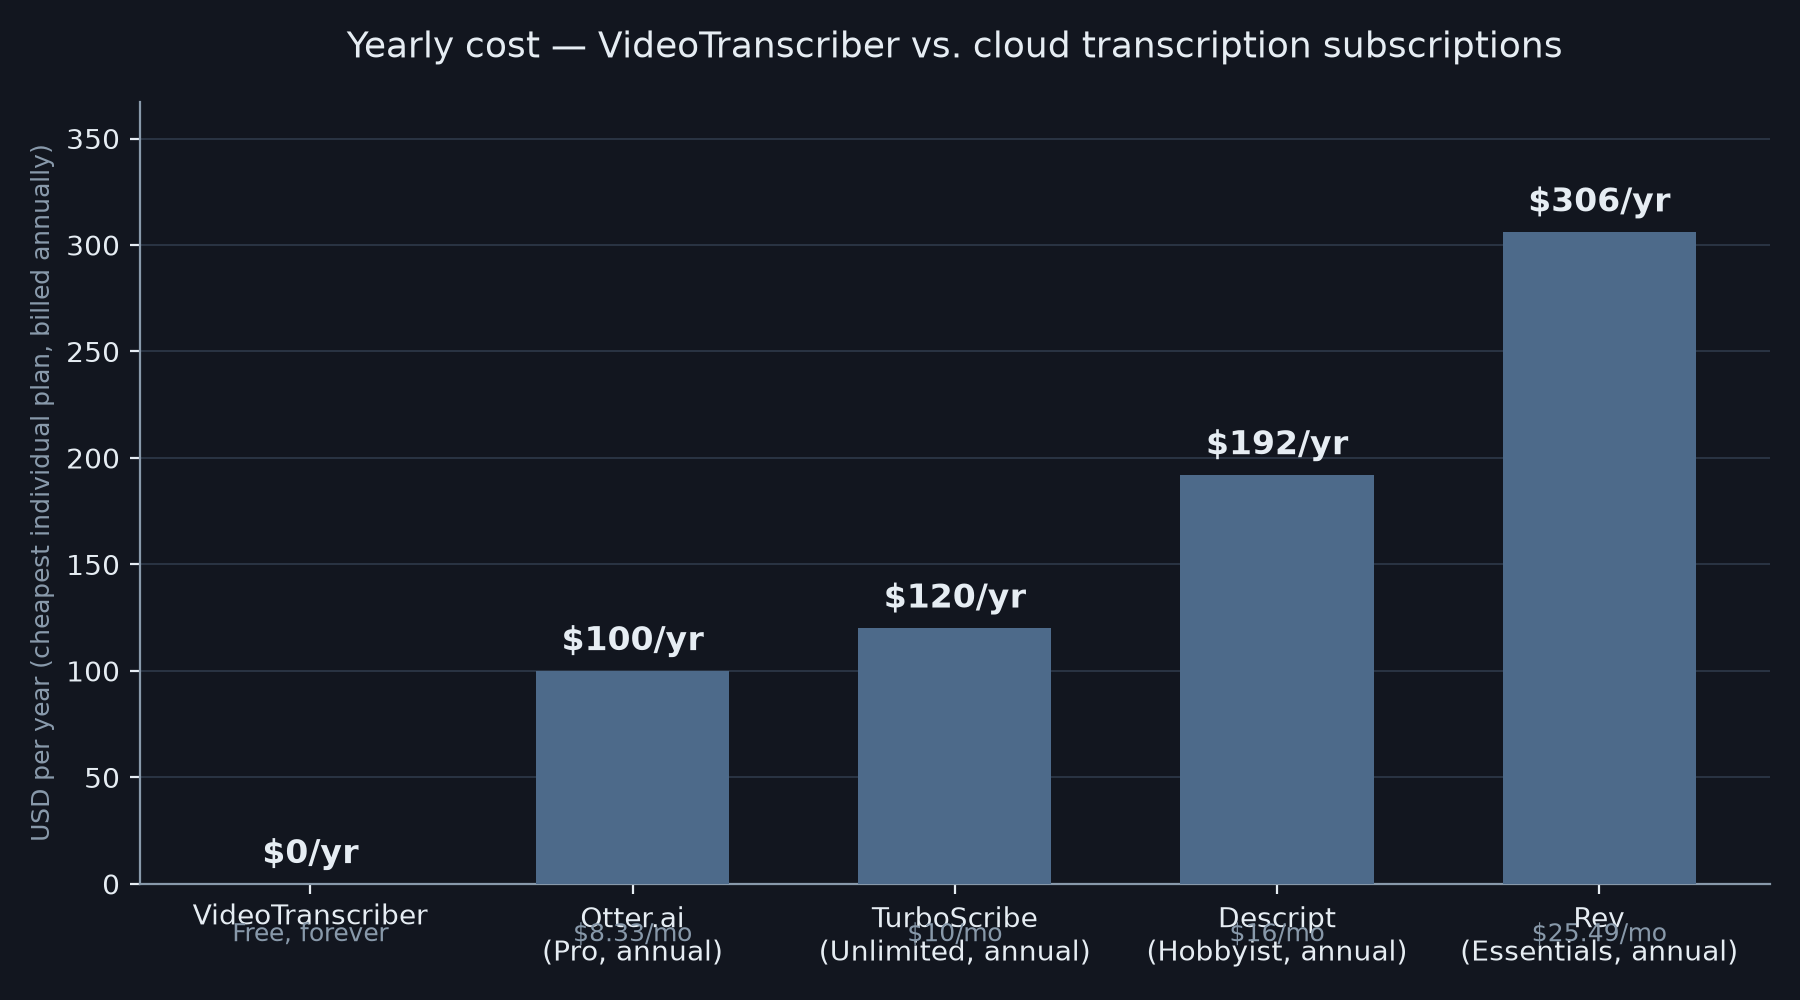
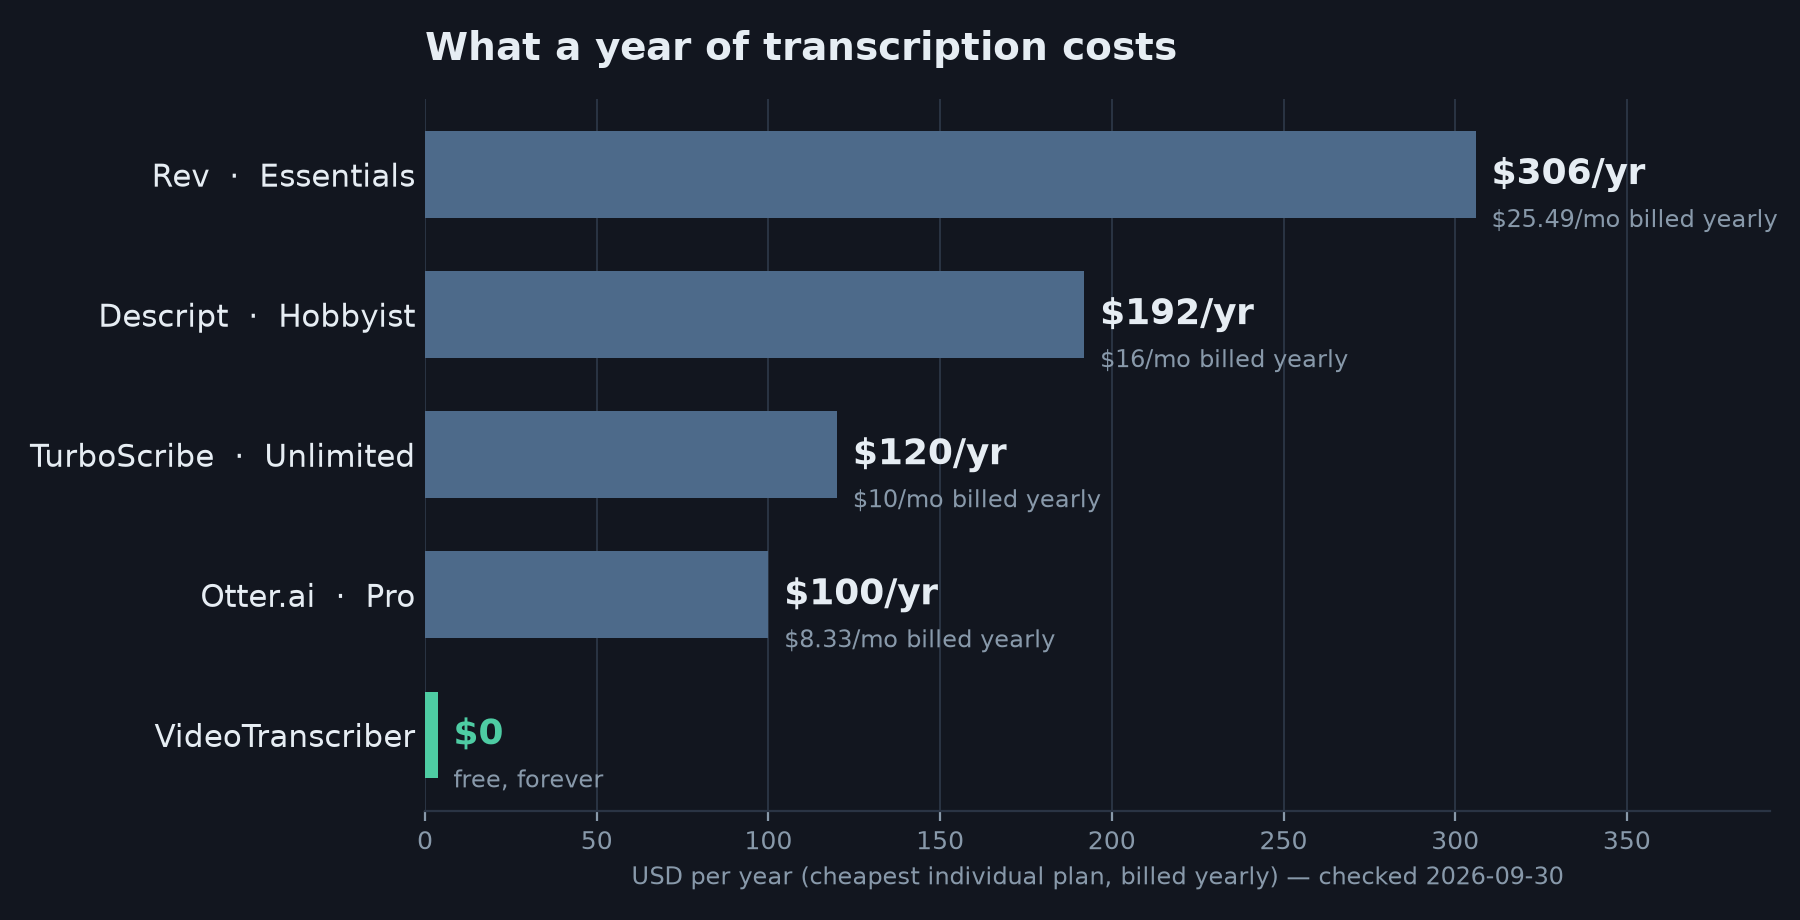
fix: surface GUI file errors, drop personal crash-logger hook, clearer cost chart
- Preview/copy/open-folder failures now log and show a status message
  instead of failing silently in the windowed exe.
- Remove the CLI's optional import of a developer-only crash logger.
- Cost chart: horizontal bars sorted by price, $0 row highlighted.

diff --git a/scripts/make_cost_chart.py b/scripts/make_cost_chart.py
@@ -7,7 +7,7 @@ see the table in README.md for the exact plan names, prices, and source URLs.
 This script is a one-off content-generation tool, not part of the app itself,
 so its dependency (matplotlib) is intentionally not in requirements.txt:
 
-    pip install matplotlib
+    uv pip install matplotlib
     python scripts/make_cost_chart.py
 
 Output: docs/assets/cost-compare.png
@@ -28,11 +28,11 @@ OUT_PATH = os.path.join(HERE, "..", "docs", "assets", "cost-compare.png")
 # See README.md "Comparison" section for plan names, exact prices, source
 # URLs, and the date each page was checked (2026-09-30).
 DATA = [
-    ("VideoTranscriber", 0, "Free, forever"),
-    ("Otter.ai\n(Pro, annual)", 100, "$8.33/mo"),
-    ("TurboScribe\n(Unlimited, annual)", 120, "$10/mo"),
-    ("Descript\n(Hobbyist, annual)", 192, "$16/mo"),
-    ("Rev\n(Essentials, annual)", 306, "$25.49/mo"),
+    ("Rev  ·  Essentials", 306, "$25.49/mo billed yearly"),
+    ("Descript  ·  Hobbyist", 192, "$16/mo billed yearly"),
+    ("TurboScribe  ·  Unlimited", 120, "$10/mo billed yearly"),
+    ("Otter.ai  ·  Pro", 100, "$8.33/mo billed yearly"),
+    ("VideoTranscriber", 0, "free, forever"),
 ]
 
 BG = "#12161f"
@@ -46,42 +46,39 @@ PAID_COLOR = "#4d6a8a"
 def main() -> None:
     labels = [d[0] for d in DATA]
     values = [d[1] for d in DATA]
-    colors = [FREE_COLOR] + [PAID_COLOR] * (len(DATA) - 1)
+    colors = [PAID_COLOR] * (len(DATA) - 1) + [FREE_COLOR]
+    top = max(values)
 
-    fig, ax = plt.subplots(figsize=(9, 5), dpi=200)
+    fig, ax = plt.subplots(figsize=(9, 4.6), dpi=200)
     fig.patch.set_facecolor(BG)
     ax.set_facecolor(BG)
 
-    bars = ax.bar(labels, values, color=colors, width=0.6, zorder=3)
+    ypos = list(range(len(DATA)))[::-1]
+    # A sliver so the $0 row still shows a visible teal marker.
+    shown = [v if v > 0 else top * 0.012 for v in values]
+    ax.barh(ypos, shown, color=colors, height=0.62, zorder=3)
 
-    for bar, (_, value, note) in zip(bars, DATA, strict=True):
-        height = bar.get_height()
-        label = "$0/yr" if value == 0 else f"${value}/yr"
-        ax.text(
-            bar.get_x() + bar.get_width() / 2, height + 6,
-            label, ha="center", va="bottom", color=FG, fontsize=12, fontweight="bold",
-        )
-        ax.text(
-            bar.get_x() + bar.get_width() / 2, -18,
-            note, ha="center", va="top", color=MUTED, fontsize=9,
-        )
+    for y, (_, value, note) in zip(ypos, DATA, strict=True):
+        price = "$0" if value == 0 else f"${value}/yr"
+        color = FREE_COLOR if value == 0 else FG
+        x = max(value, top * 0.012) + top * 0.015
+        ax.text(x, y, price, va="center", ha="left", color=color,
+                fontsize=13, fontweight="bold")
+        ax.text(x, y - 0.33, note, va="center", ha="left", color=MUTED, fontsize=8.5)
 
-    ax.set_title(
-        "Yearly cost — VideoTranscriber vs. cloud transcription subscriptions",
-        color=FG, fontsize=13, pad=16,
-    )
-    ax.set_ylabel(
-        "USD per year (cheapest individual plan, billed annually)",
-        color=MUTED, fontsize=9,
-    )
-    ax.tick_params(colors=FG, labelsize=10)
-    ax.spines["top"].set_visible(False)
-    ax.spines["right"].set_visible(False)
-    ax.spines["left"].set_color(MUTED)
-    ax.spines["bottom"].set_color(MUTED)
-    ax.yaxis.grid(True, color="#2a3444", linewidth=0.7, zorder=0)
+    ax.set_yticks(ypos, labels)
+    ax.tick_params(axis="y", colors=FG, labelsize=11, length=0)
+    ax.tick_params(axis="x", colors=MUTED, labelsize=9)
+    ax.set_xlim(0, top * 1.28)
+    ax.set_xlabel("USD per year (cheapest individual plan, billed yearly) — checked 2026-09-30",
+                  color=MUTED, fontsize=8.5)
+    ax.set_title("What a year of transcription costs", color=FG, fontsize=14, pad=14,
+                 loc="left", fontweight="bold")
+    for side in ("top", "right", "left"):
+        ax.spines[side].set_visible(False)
+    ax.spines["bottom"].set_color("#2a3444")
+    ax.xaxis.grid(True, color="#2a3444", linewidth=0.7, zorder=0)
     ax.set_axisbelow(True)
-    ax.set_ylim(0, max(values) * 1.2)
 
     fig.tight_layout()
     os.makedirs(os.path.dirname(OUT_PATH), exist_ok=True)

diff --git a/transcribe_gui.py b/transcribe_gui.py
@@ -6,6 +6,7 @@ Requires: customtkinter, faster-whisper (audio decoding is handled internally
 via the bundled PyAV/FFmpeg libraries — no system ffmpeg install needed).
 """
 
+import logging
 import os
 import subprocess
 import sys
@@ -26,6 +27,8 @@ from transcribe_video import (
     transcribe,
     transcribe_batch,
 )
+
+logger = logging.getLogger(__name__)
 
 ctk.set_appearance_mode("dark")
 ctk.set_default_color_theme("dark-blue")
@@ -443,10 +446,7 @@ class App(ctk.CTk):
             self._output_path = last_txt
             self._copy_btn.configure(state="normal")
             self._open_btn.configure(state="normal")
-            try:
-                self._set_preview(last_txt.read_text(encoding="utf-8"))
-            except OSError:
-                pass
+            self._show_file_preview(last_txt)
         else:
             self._copy_btn.configure(state="normal")
             self._open_btn.configure(state="normal")
@@ -458,10 +458,7 @@ class App(ctk.CTk):
         self._copy_btn.configure(state="normal")
         self._open_btn.configure(state="normal")
         self._set_status(f"Done — saved to {output_path}", color=SUCCESS)
-        try:
-            self._set_preview(output_path.read_text(encoding="utf-8"))
-        except OSError:
-            pass
+        self._show_file_preview(output_path)
 
     def _on_error(self, msg: str) -> None:
         self._finish(success=False)
@@ -476,7 +473,12 @@ class App(ctk.CTk):
 
     def _copy_output(self):
         if self._output_path and self._output_path.exists():
-            text = self._output_path.read_text(encoding="utf-8")
+            try:
+                text = self._output_path.read_text(encoding="utf-8")
+            except OSError as exc:
+                logger.warning("Could not read %s for copy: %s", self._output_path, exc)
+                self._set_status(f"Could not read transcript: {exc}", color=ERROR)
+                return
             self.clipboard_clear()
             self.clipboard_append(text)
             self._set_status("Copied to clipboard.", color=SUCCESS)
@@ -484,12 +486,16 @@ class App(ctk.CTk):
     def _open_folder(self):
         if self._output_path:
             folder = self._output_path.parent
-            if sys.platform == "win32":
-                os.startfile(folder)
-            elif sys.platform == "darwin":
-                subprocess.run(["open", folder])
-            else:
-                subprocess.run(["xdg-open", folder])
+            try:
+                if sys.platform == "win32":
+                    os.startfile(folder)
+                elif sys.platform == "darwin":
+                    subprocess.run(["open", folder], check=True)
+                else:
+                    subprocess.run(["xdg-open", folder], check=True)
+            except (OSError, subprocess.CalledProcessError) as exc:
+                logger.warning("Could not open folder %s: %s", folder, exc)
+                self._set_status(f"Could not open folder: {folder}", color=ERROR)
 
     # ------------------------------------------------------------------
     # Helpers
@@ -498,6 +504,13 @@ class App(ctk.CTk):
     def _set_status(self, text: str, color: str = "#aabbcc"):
         self._status_var.set(text)
         self._status_label.configure(text_color=color)
+
+    def _show_file_preview(self, path: Path) -> None:
+        try:
+            self._set_preview(path.read_text(encoding="utf-8"))
+        except OSError as exc:
+            logger.warning("Could not read %s for preview: %s", path, exc)
+            self._set_preview(f"(Saved to {path}, but the preview could not be loaded: {exc})")
 
     def _set_preview(self, text: str):
         self._preview.configure(state="normal")

diff --git a/transcribe_video.py b/transcribe_video.py
@@ -484,14 +484,6 @@ def _build_parser() -> argparse.ArgumentParser:
 
 
 def main() -> None:
-    # Crash logger — only when running as CLI
-    try:
-        sys.path.insert(0, str(Path.home() / ".claude" / "scripts"))
-        from crash_logger import install
-        install(project_root=Path(__file__).parent)
-    except Exception:
-        pass
-
     args = _build_parser().parse_args()
     try:
         paths = collect_paths(
